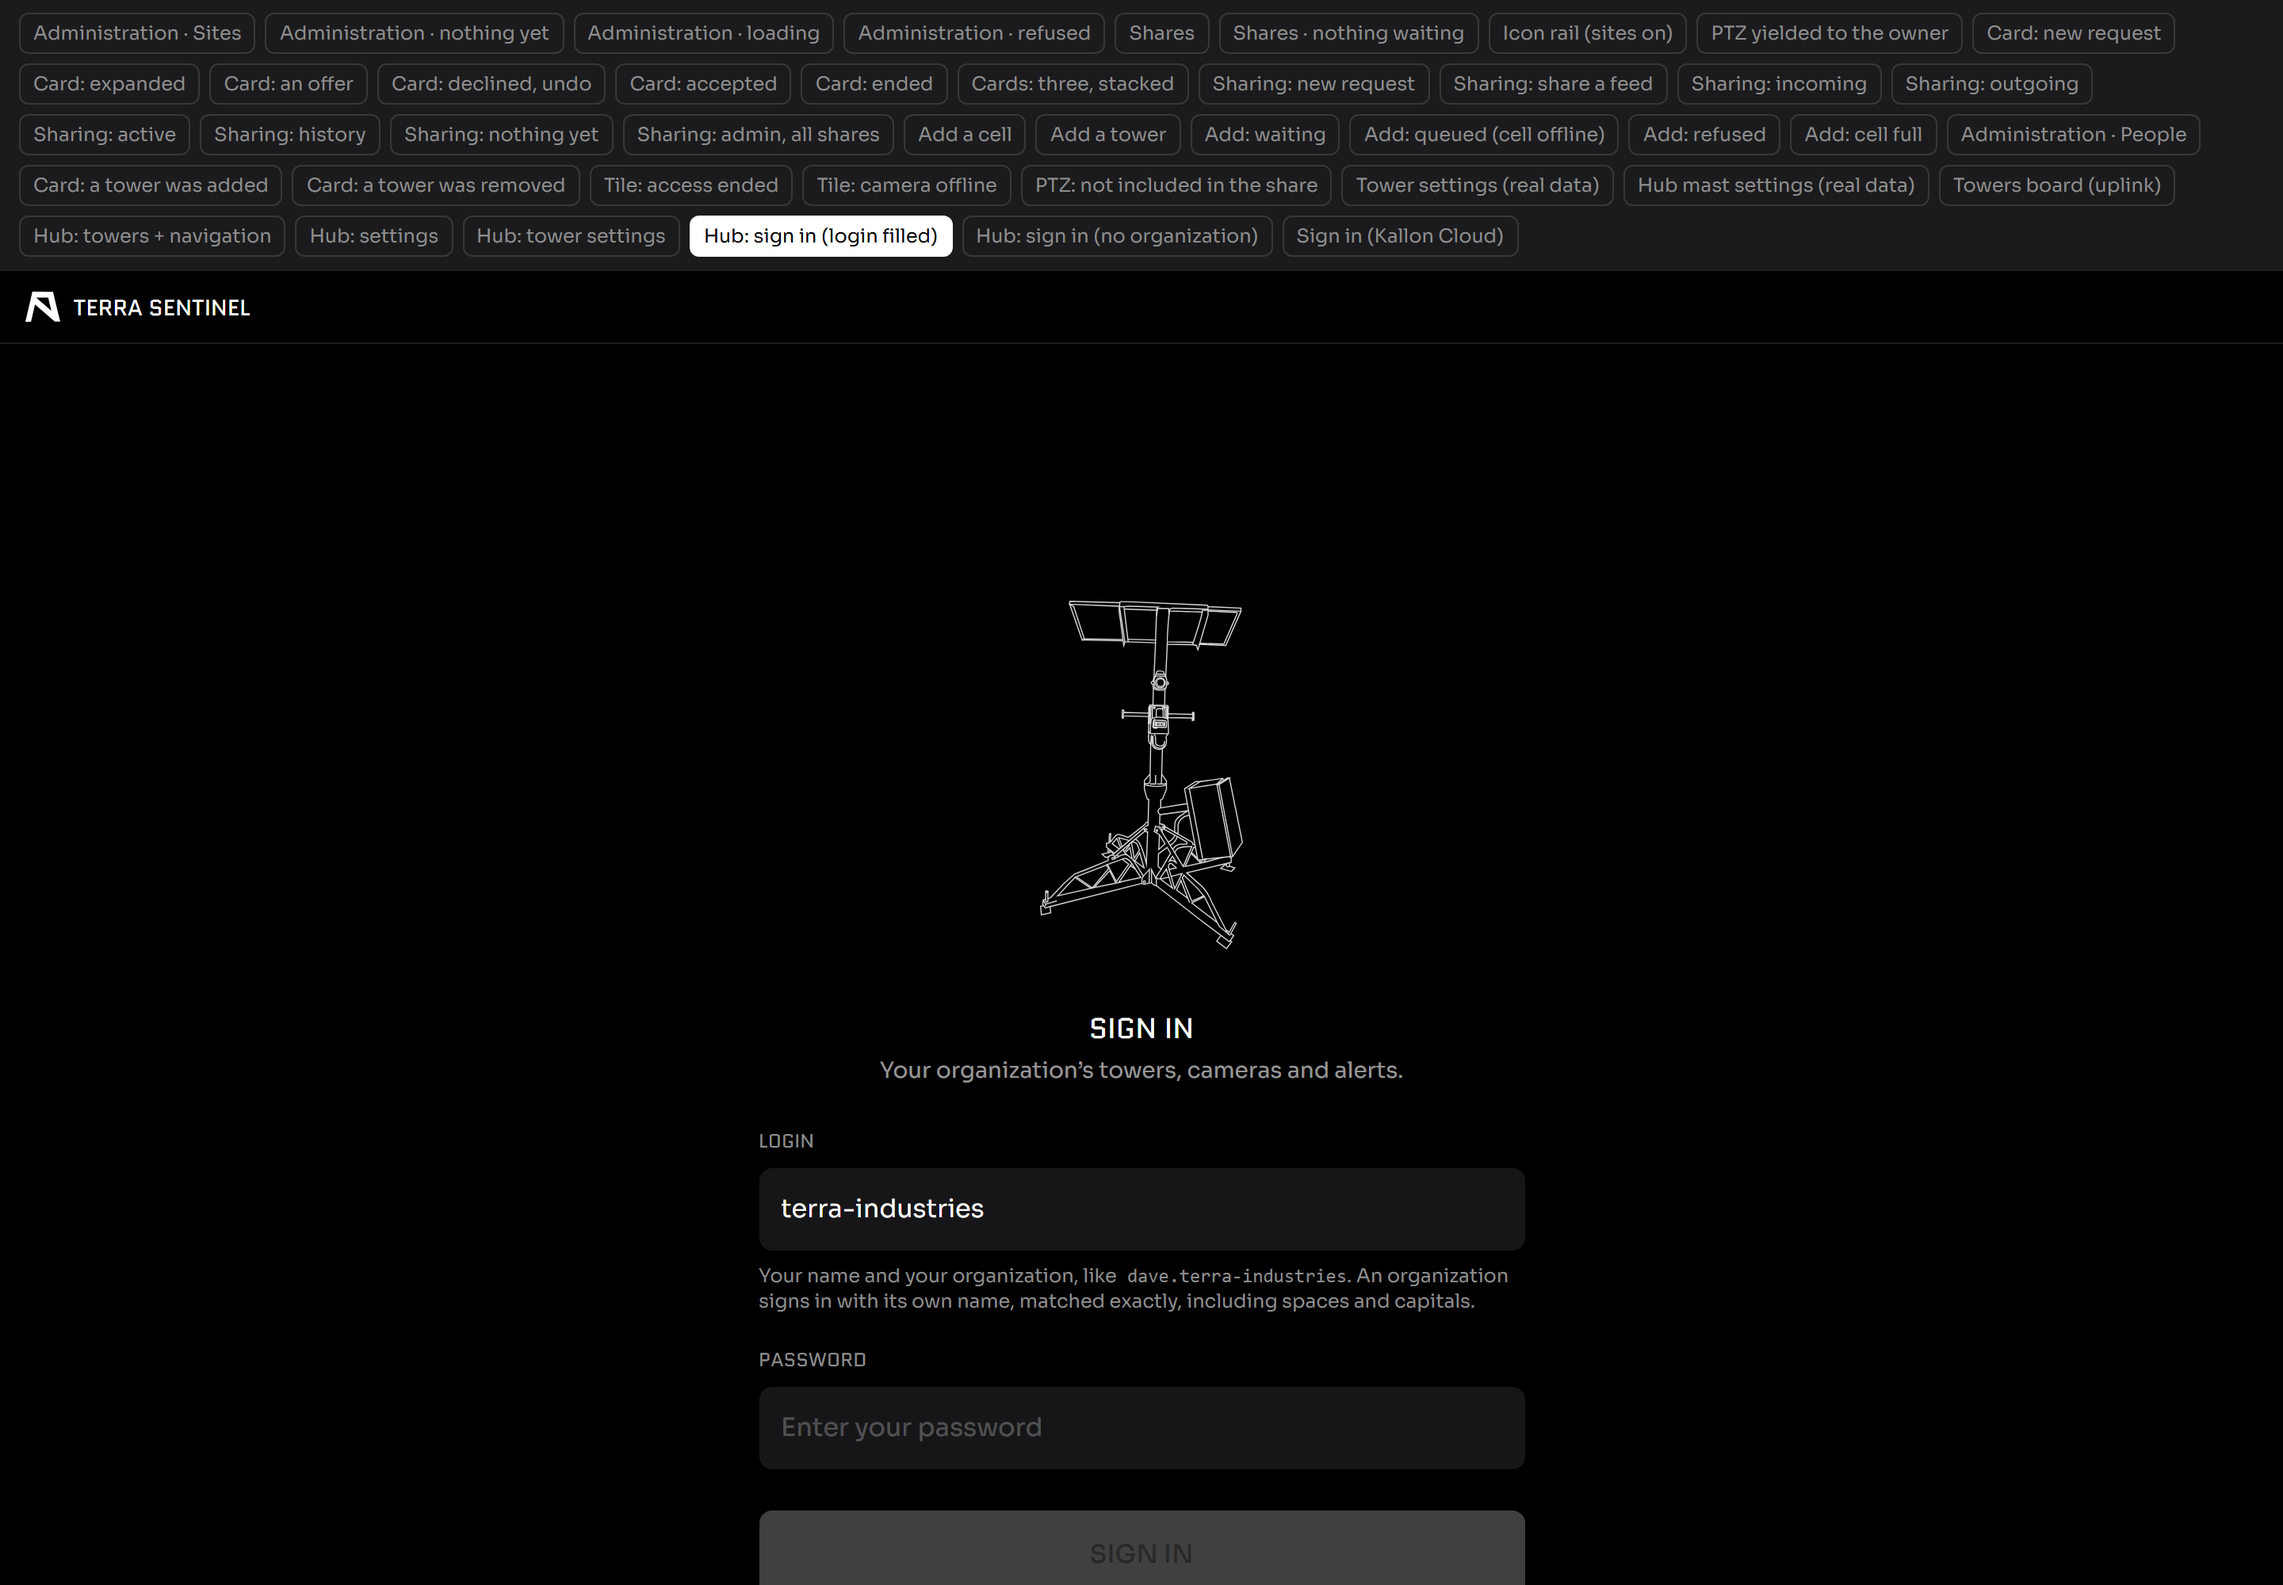
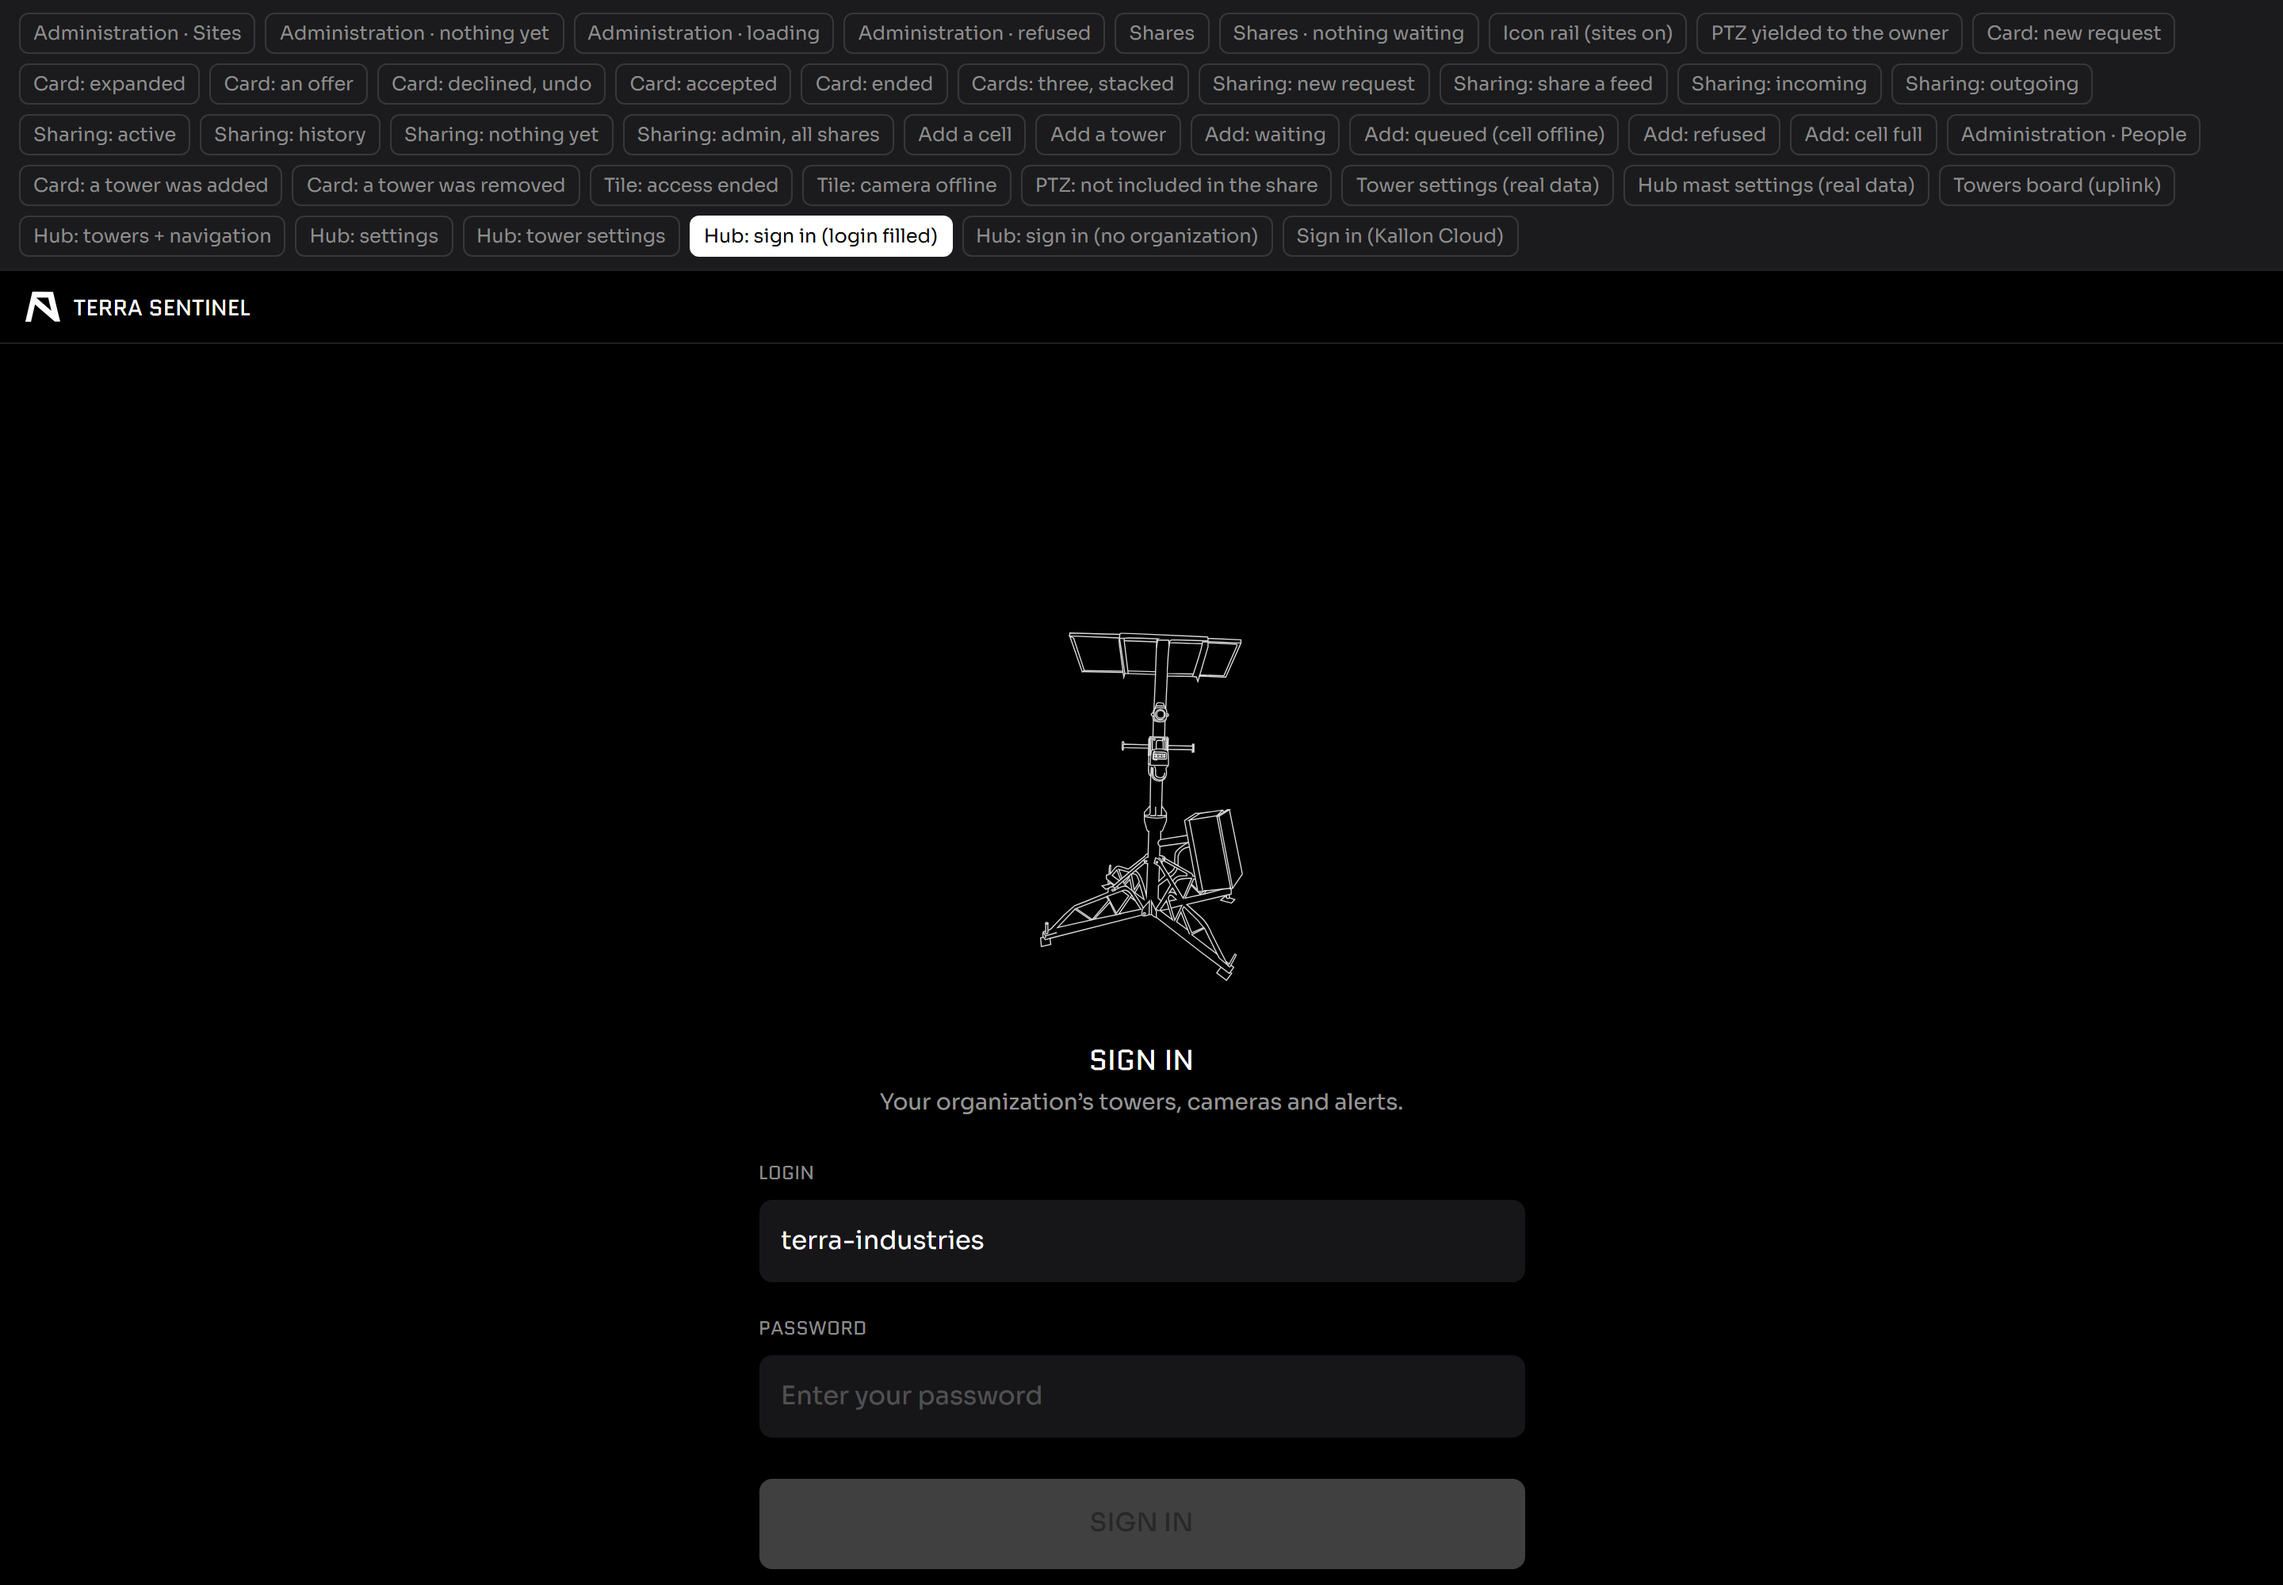
No login-format hint on a hub
The line under the login box explains that a login is a PERSON within an
ORGANIZATION -- `dave.terra-industries`, matched exactly, spaces and capitals
and all. That is true of Kallon Cloud, and it is the thing somebody arriving
there has to be told.

A hub has only its organization's login. So on a kiosk those three lines teach
a format nobody standing there can use, usually under a box already filled in
with the only right answer. Terra staff signing in on a customer's hub with
their own login know what their login is.

⚠ IT HANGS ON THE KIND OF SERVER, NOT ON WHETHER THE BOX WAS FILLED, and
those are different questions. A hub that has not been told its customer sends
no `organization`, so `hubLogin` stays null there and the box is empty -- and
it is still a hub, where a login is still only ever an organization's. Tying
this to `hubLogin` would have left the one screen that most needs the
explanation removed showing it, which is why `hubMode` is its own piece of
state fed by `isHubRole` and set before the organization test returns.

Kallon Cloud is untouched, and a test now holds that line word for word rather
than merely checking it is present: a hint that survived as a shorter sentence
would pass a looser check.

505 tests pass.

diff --git a/src/components/LoginView.tsx b/src/components/LoginView.tsx
@@ -1,6 +1,7 @@
 import { motion } from "motion/react";
 import { useCallback, useEffect, useRef, useState, type KeyboardEvent } from "react";
 import { loadSiteConfig } from "@/lib/siteConfig";
+import { isHubRole } from "@/lib/hubMode";
 import { useSession } from "@/components/AuthProvider";
 import { ENTER, FADE } from "@/lib/motion";
 import {
@@ -134,6 +135,16 @@ export function LoginView() {
    */
   const [hubLogin, setHubLogin] = useState<string | null>(null);
   /**
+   * Is this a hub at all, whether or not it knows its customer?
+   *
+   * ⚠ SEPARATE FROM `hubLogin`, AND IT HAS TO BE. A hub that has not been
+   * told its customer sends no `organization`, so `hubLogin` stays null there
+   * -- but it is still a hub, and the hint below still does not apply to it.
+   * Tying the two together would leave the one screen that most needs the
+   * explanation removed showing it.
+   */
+  const [hubMode, setHubMode] = useState(false);
+  /**
    * Has anybody touched the login box?
    *
    * ⚠ THE PROBE IS ASYNCHRONOUS AND A PERSON IS NOT. `/healthz` can land a
@@ -188,7 +199,12 @@ export function LoginView() {
   useEffect(() => {
     let alive = true;
     void loadSiteConfig().then((config) => {
-      if (!alive || config.hubLogin === null) return;
+      if (!alive) return;
+      /* ⚠ BEFORE THE RETURN BELOW. What kind of box this is does not depend
+         on whether it sent a login, and a hub that sent none still gets the
+         hub's screen. */
+      setHubMode(isHubRole(config.role));
+      if (config.hubLogin === null) return;
       if (touchedLogin.current) return;
       setHubLogin(config.hubLogin);
       setOrganizationName(config.hubLogin);
@@ -389,12 +405,23 @@ export function LoginView() {
                     rejected ? "ring-1 ring-critical" : ""
                   }`}
                 />
-                <span className="text-[0.75rem] leading-[16px] text-muted">
-                  Your name and your organization, like
-                  <span className="font-mono"> dave.terra-industries</span>.
-                  An organization signs in with its own name, matched
-                  exactly, including spaces and capitals.
-                </span>
+                {/* ⚠ NOT ON A HUB, FILLED OR NOT. The line explains that a
+                    login is a PERSON within an ORGANIZATION, which is true of
+                    Kallon Cloud and is the thing somebody arriving there has
+                    to be told. A hub has only its organization's login, so on
+                    a kiosk this is three lines teaching a format nobody can
+                    use -- under a box that, more often than not, is already
+                    filled in with the only right answer. Terra staff signing
+                    in on a customer's hub with their own login know what
+                    their login is. */}
+                {hubMode ? null : (
+                  <span className="text-[0.75rem] leading-[16px] text-muted">
+                    Your name and your organization, like
+                    <span className="font-mono"> dave.terra-industries</span>.
+                    An organization signs in with its own name, matched
+                    exactly, including spaces and capitals.
+                  </span>
+                )}
               </label>
 
               <label className="flex flex-col gap-[8px]">
